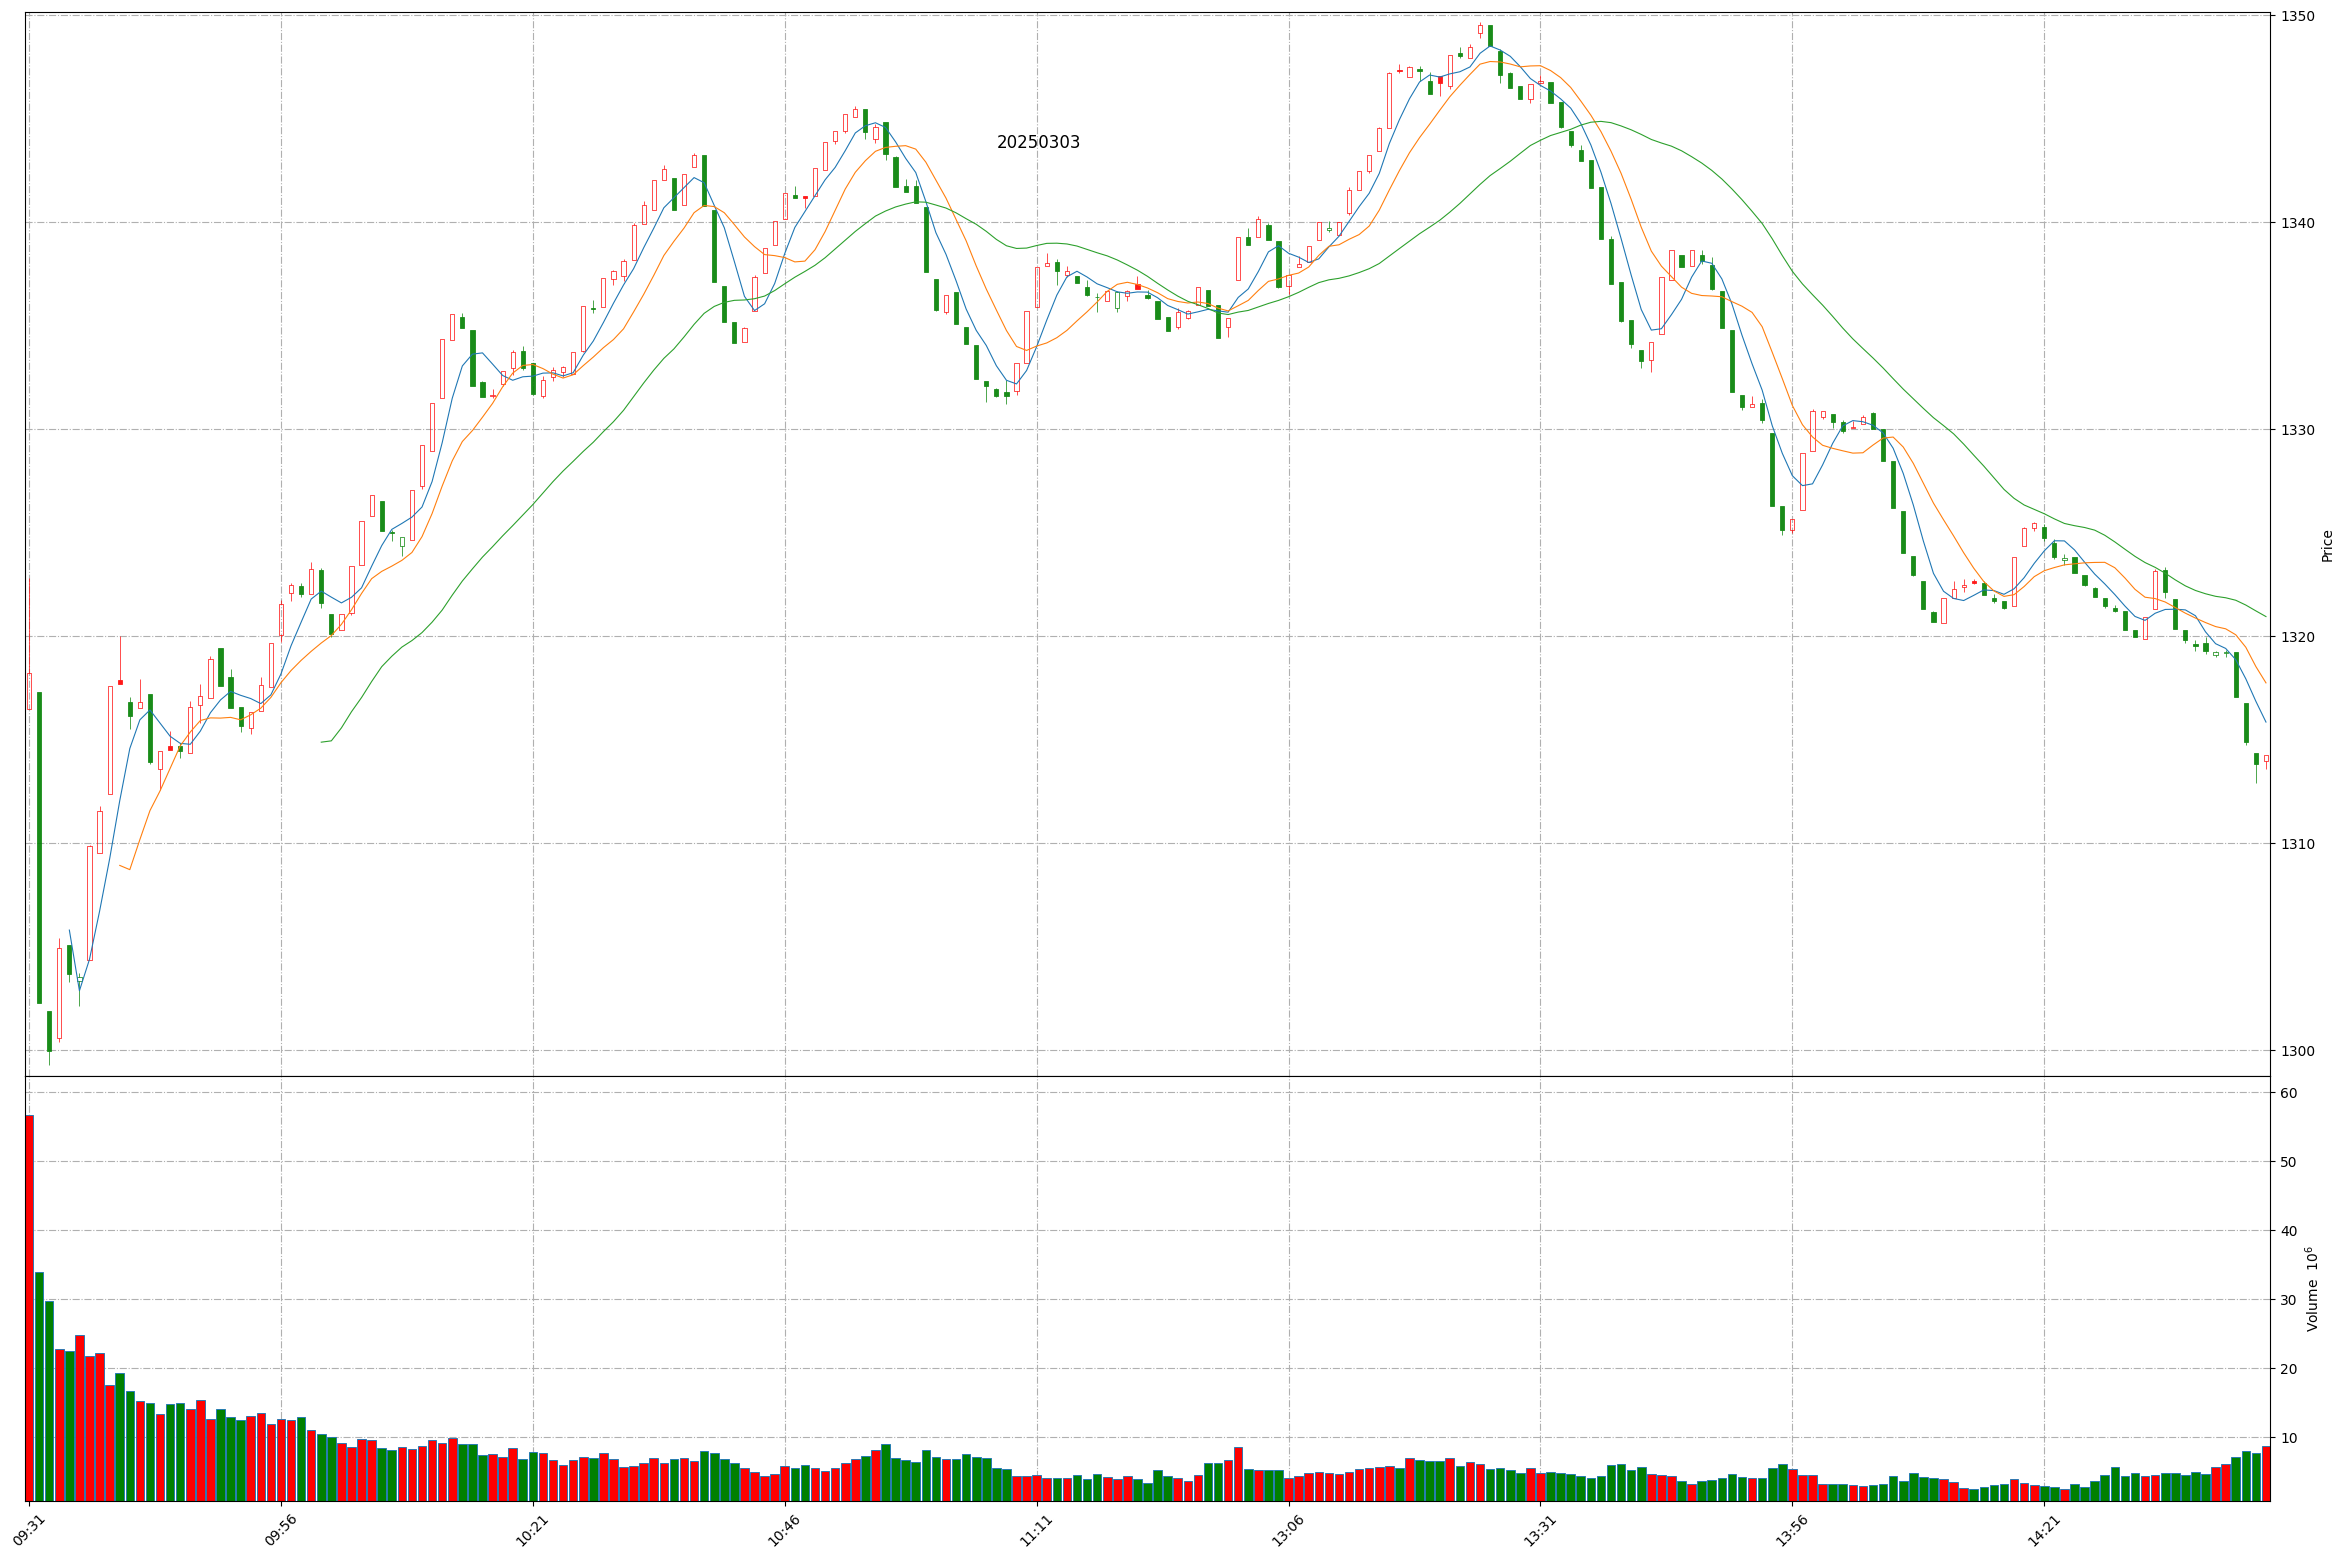
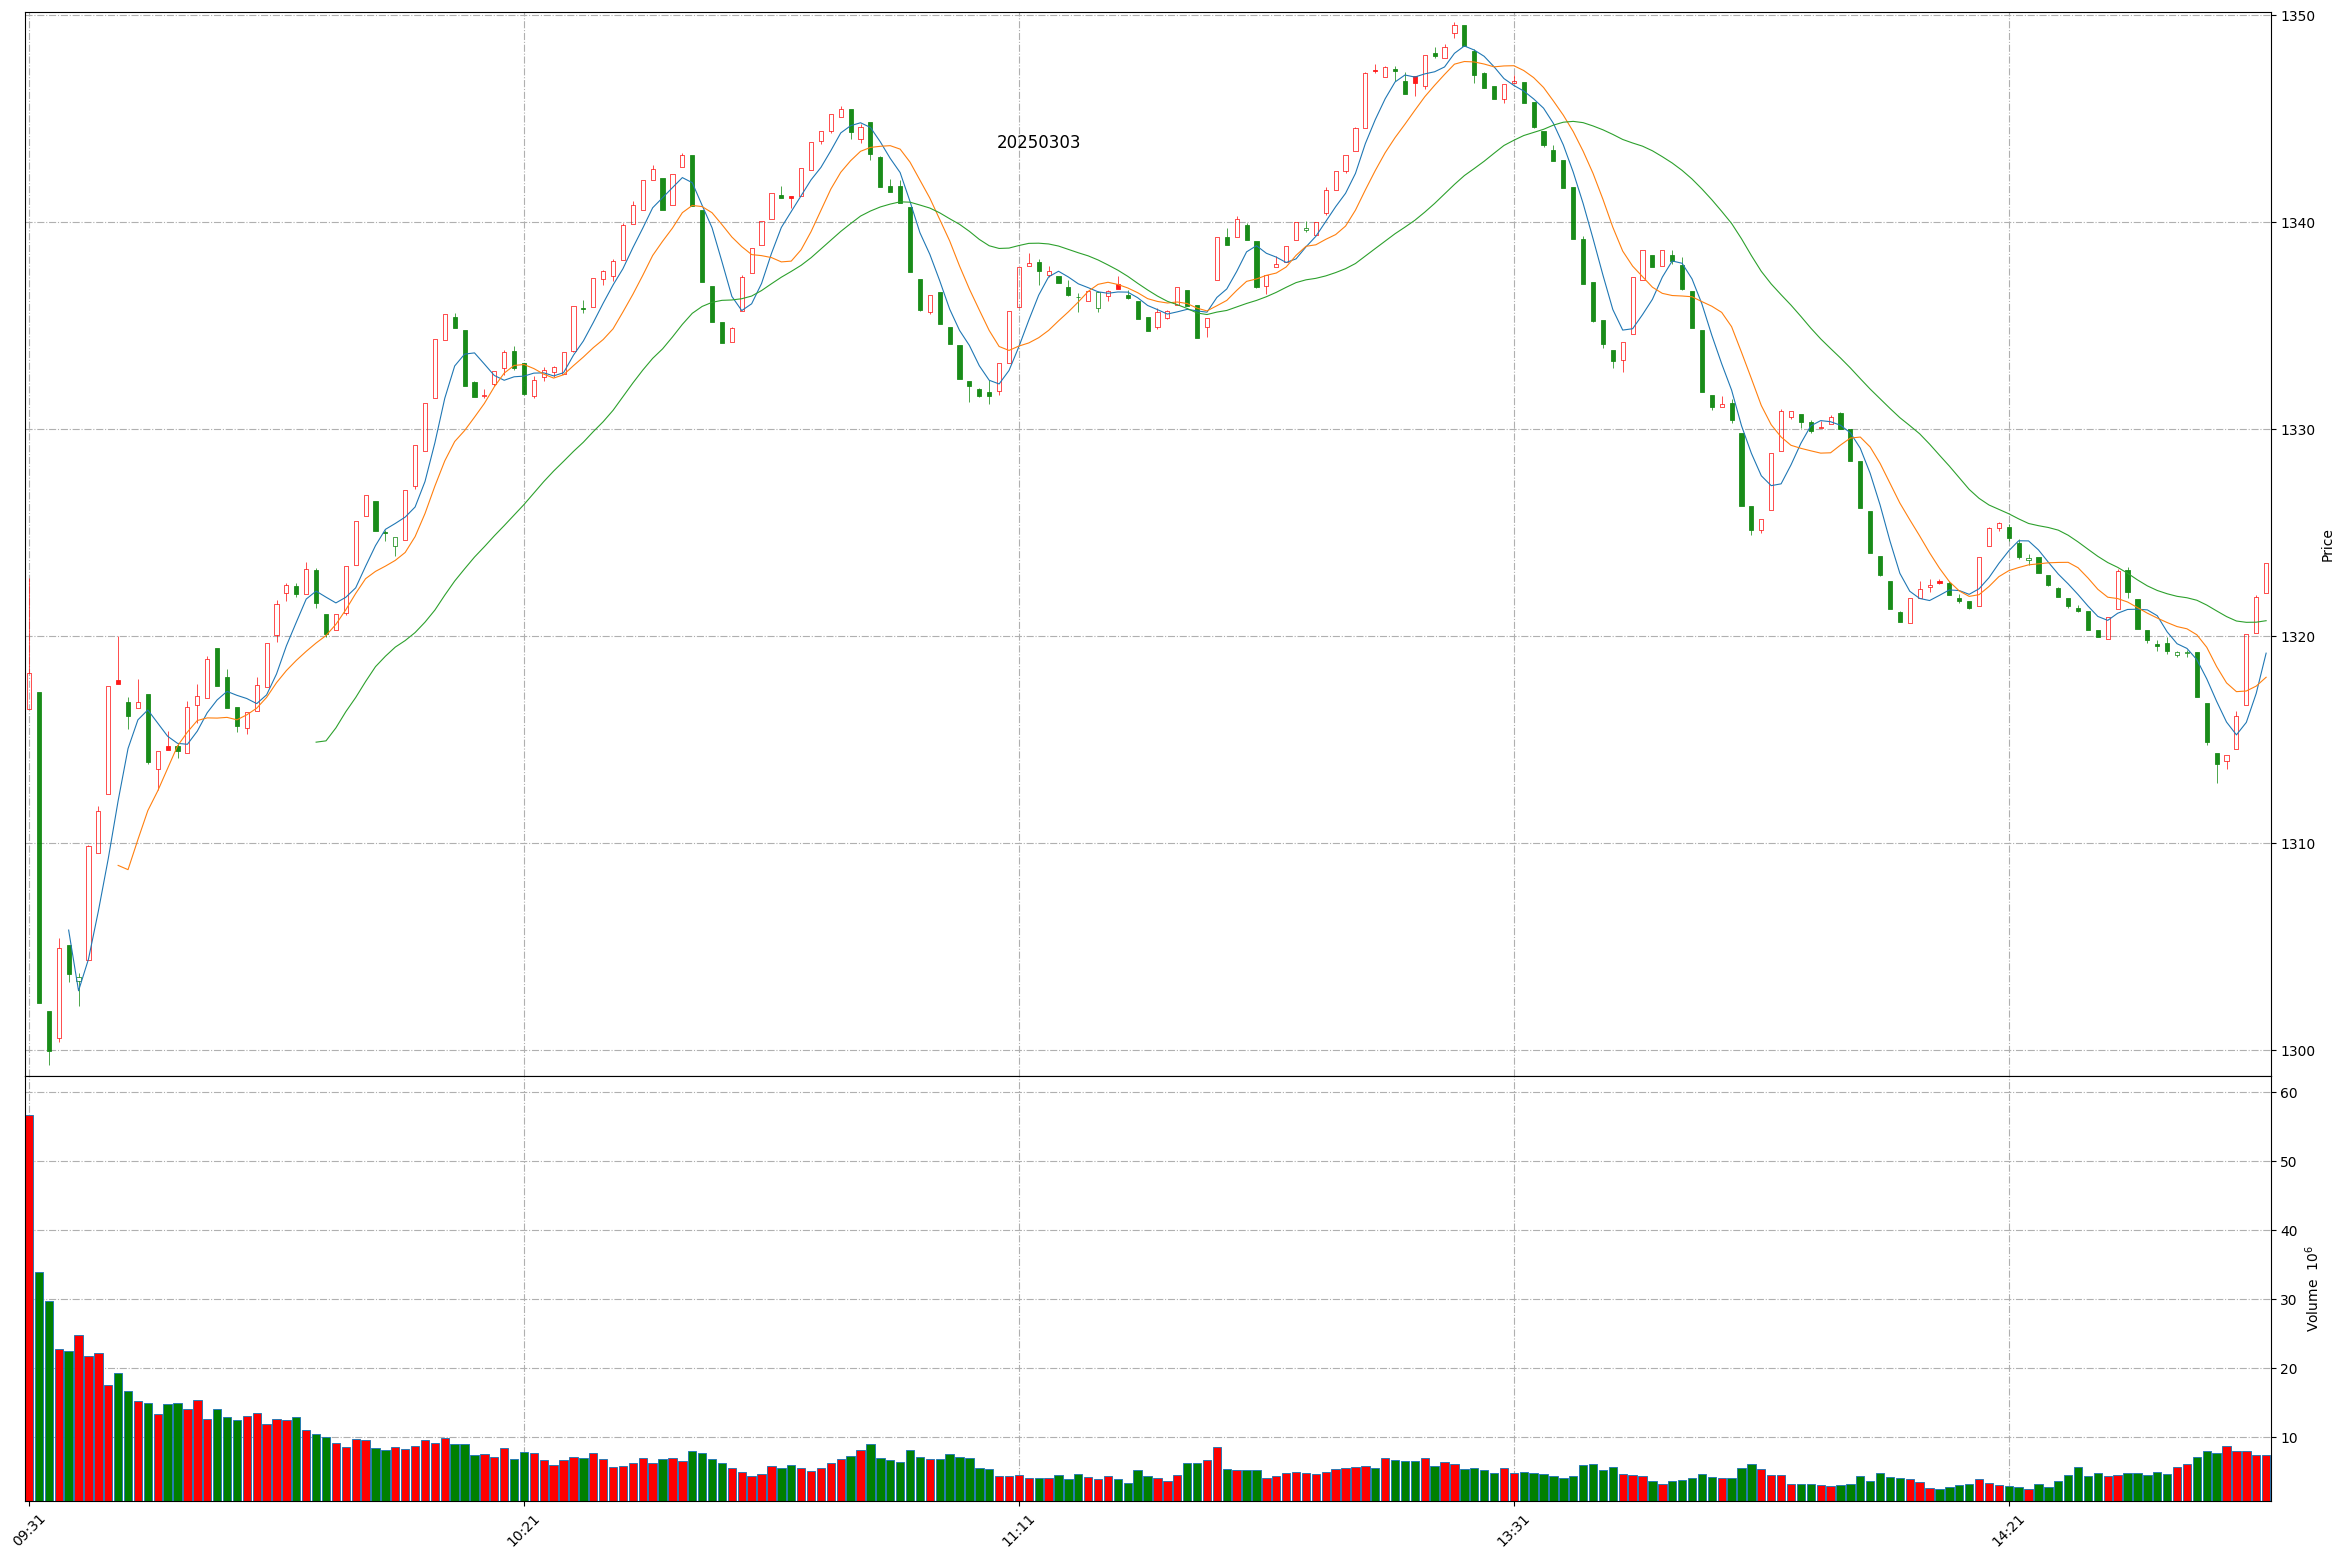
Github action update at 2025-03-03 14:47:16.

diff --git a/README.md b/README.md
@@ -1,11 +1,11 @@
 
 # Daily-A-share-market-quotes 每日 A 股指数（5min 更新）- 20250303
 
-### 上证指数 20250303 14:43
+### 上证指数 20250303 14:47
 ![](./fig/2025/3/20250303-sh000001.png)
 
-### 深证成指 20250303 14:43
+### 深证成指 20250303 14:47
 ![](./fig/2025/3/20250303-sz399001.png)
 
-### 北证50 20250303 14:43
+### 北证50 20250303 14:47
 ![](./fig/2025/3/20250303-bj899050.png)
